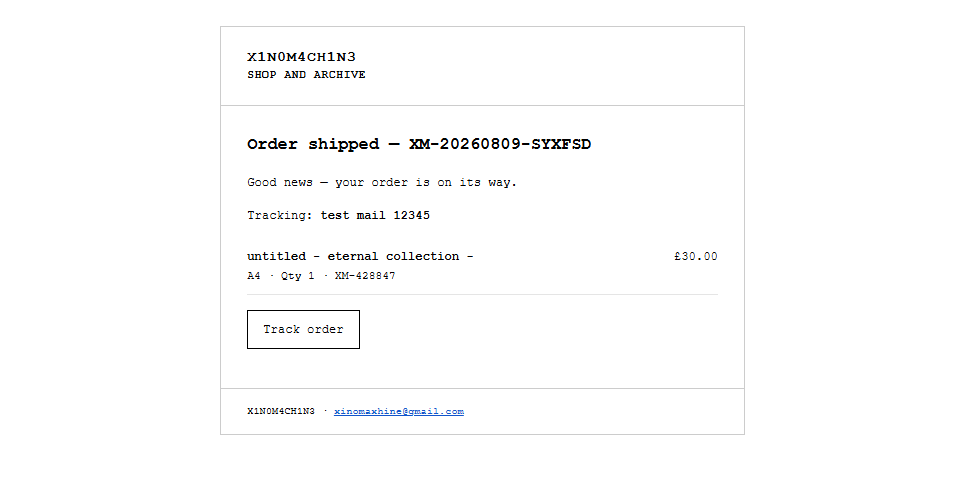
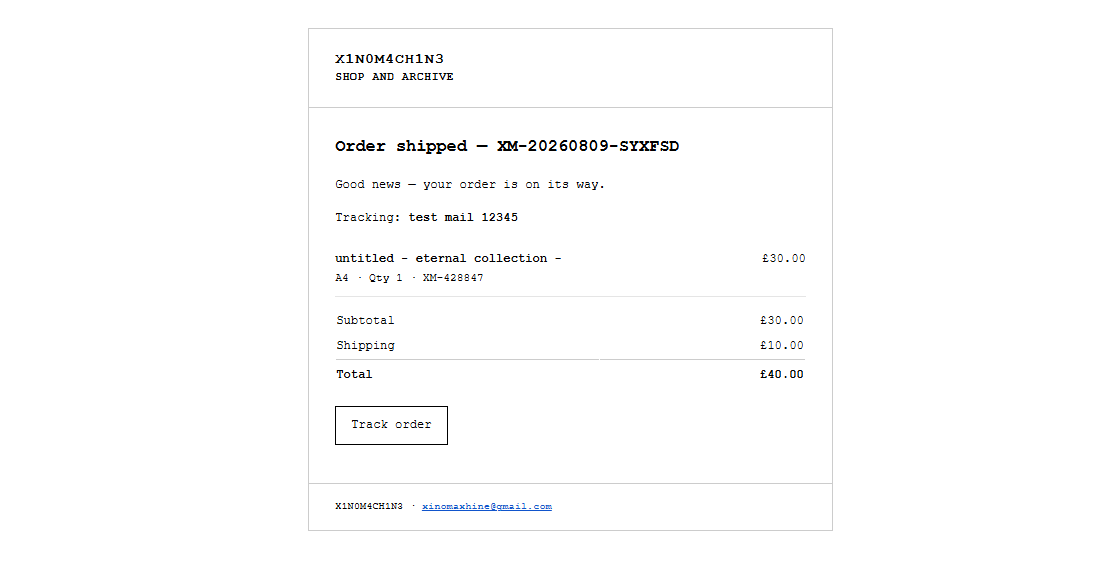
x

diff --git a/data/projects.js b/data/projects.js
@@ -39,13 +39,14 @@ outcome:"Customers pick a service, enter each dog's details, choose a day from a
   name: "XINO MACHINE Shop", category: "Business Project", year: "2026",
   image: `${BASE}/images/1002.png`,
   images: range(1000, 1060),    
-    tags: ["Design", "Development", "Deployment"],
-                          // TODO: range(START, END)
-  link: "1005",
-  overview: "",
-  software: "",
-  outcome: "",
-    desc:"",
+    tags: ["Design", "Development",],
+           software: "TypeScript, Next.js 16 (App Router, Server Components), React 19, Node.js, PostgreSQL, Neon (serverless Postgres, connection pooling), PostgreSQL stored procedures and row-level locking (concurrency safety), Stripe (Payment Intents, webhooks, refunds), custom JWT auth (jose) with bcryptjs and OTP email verification, Brevo (transactional email), Cloudinary (image hosting), Netlify (serverless deployment, CI/CD), Netlify Scheduled Functions (cron for stock release and daily data-retention sweep), GitHub (version control, automatic deploys on push), HTML5, CSS3, HTTPS/TLS, environment-based secret management",
+                 // TODO: range(START, END)
+  link: "",
+
+  overview: "Shop and archive site for an artist selling prints and original work, with an admin panel covering products, stock, orders and site content. Checkout locks stock at the database level so one-off pieces can't oversell.",
+  outcome: "Customers browse prints and originals, pick a size and pay through Stripe. Stock is locked at the database level when checkout starts and released after 20 minutes if payment doesn't complete. Users verify with an OTP at registration and at checkout if using an email they're not signed in with. Emails fire automatically on every order processing event. The admin panel covers: products, per-size stock, pricing, shipping options with rates, gallery, orders, newsletter broadcasts, legal pages, business details, toggle shop off, toggle registration off and toggle contact form off. Orders can be marked shipped or cancelled, with the Stripe refund issued and stock returned in one action. Data retention runs on a schedule: orders anonymised after 6 years, dormant accounts warned then deleted, abandoned sign-ups cleared after 48 hours. Built with GDPR-compliant data handling, a full privacy notice, self-serve password reset, consent capture and account deletion. Deployed serverlessly on Netlify with a Neon Postgres database.",
+    desc:"A live shop and archive for an artist selling prints and original work, with an admin panel for products, stock and site content.",
 
 },
 
